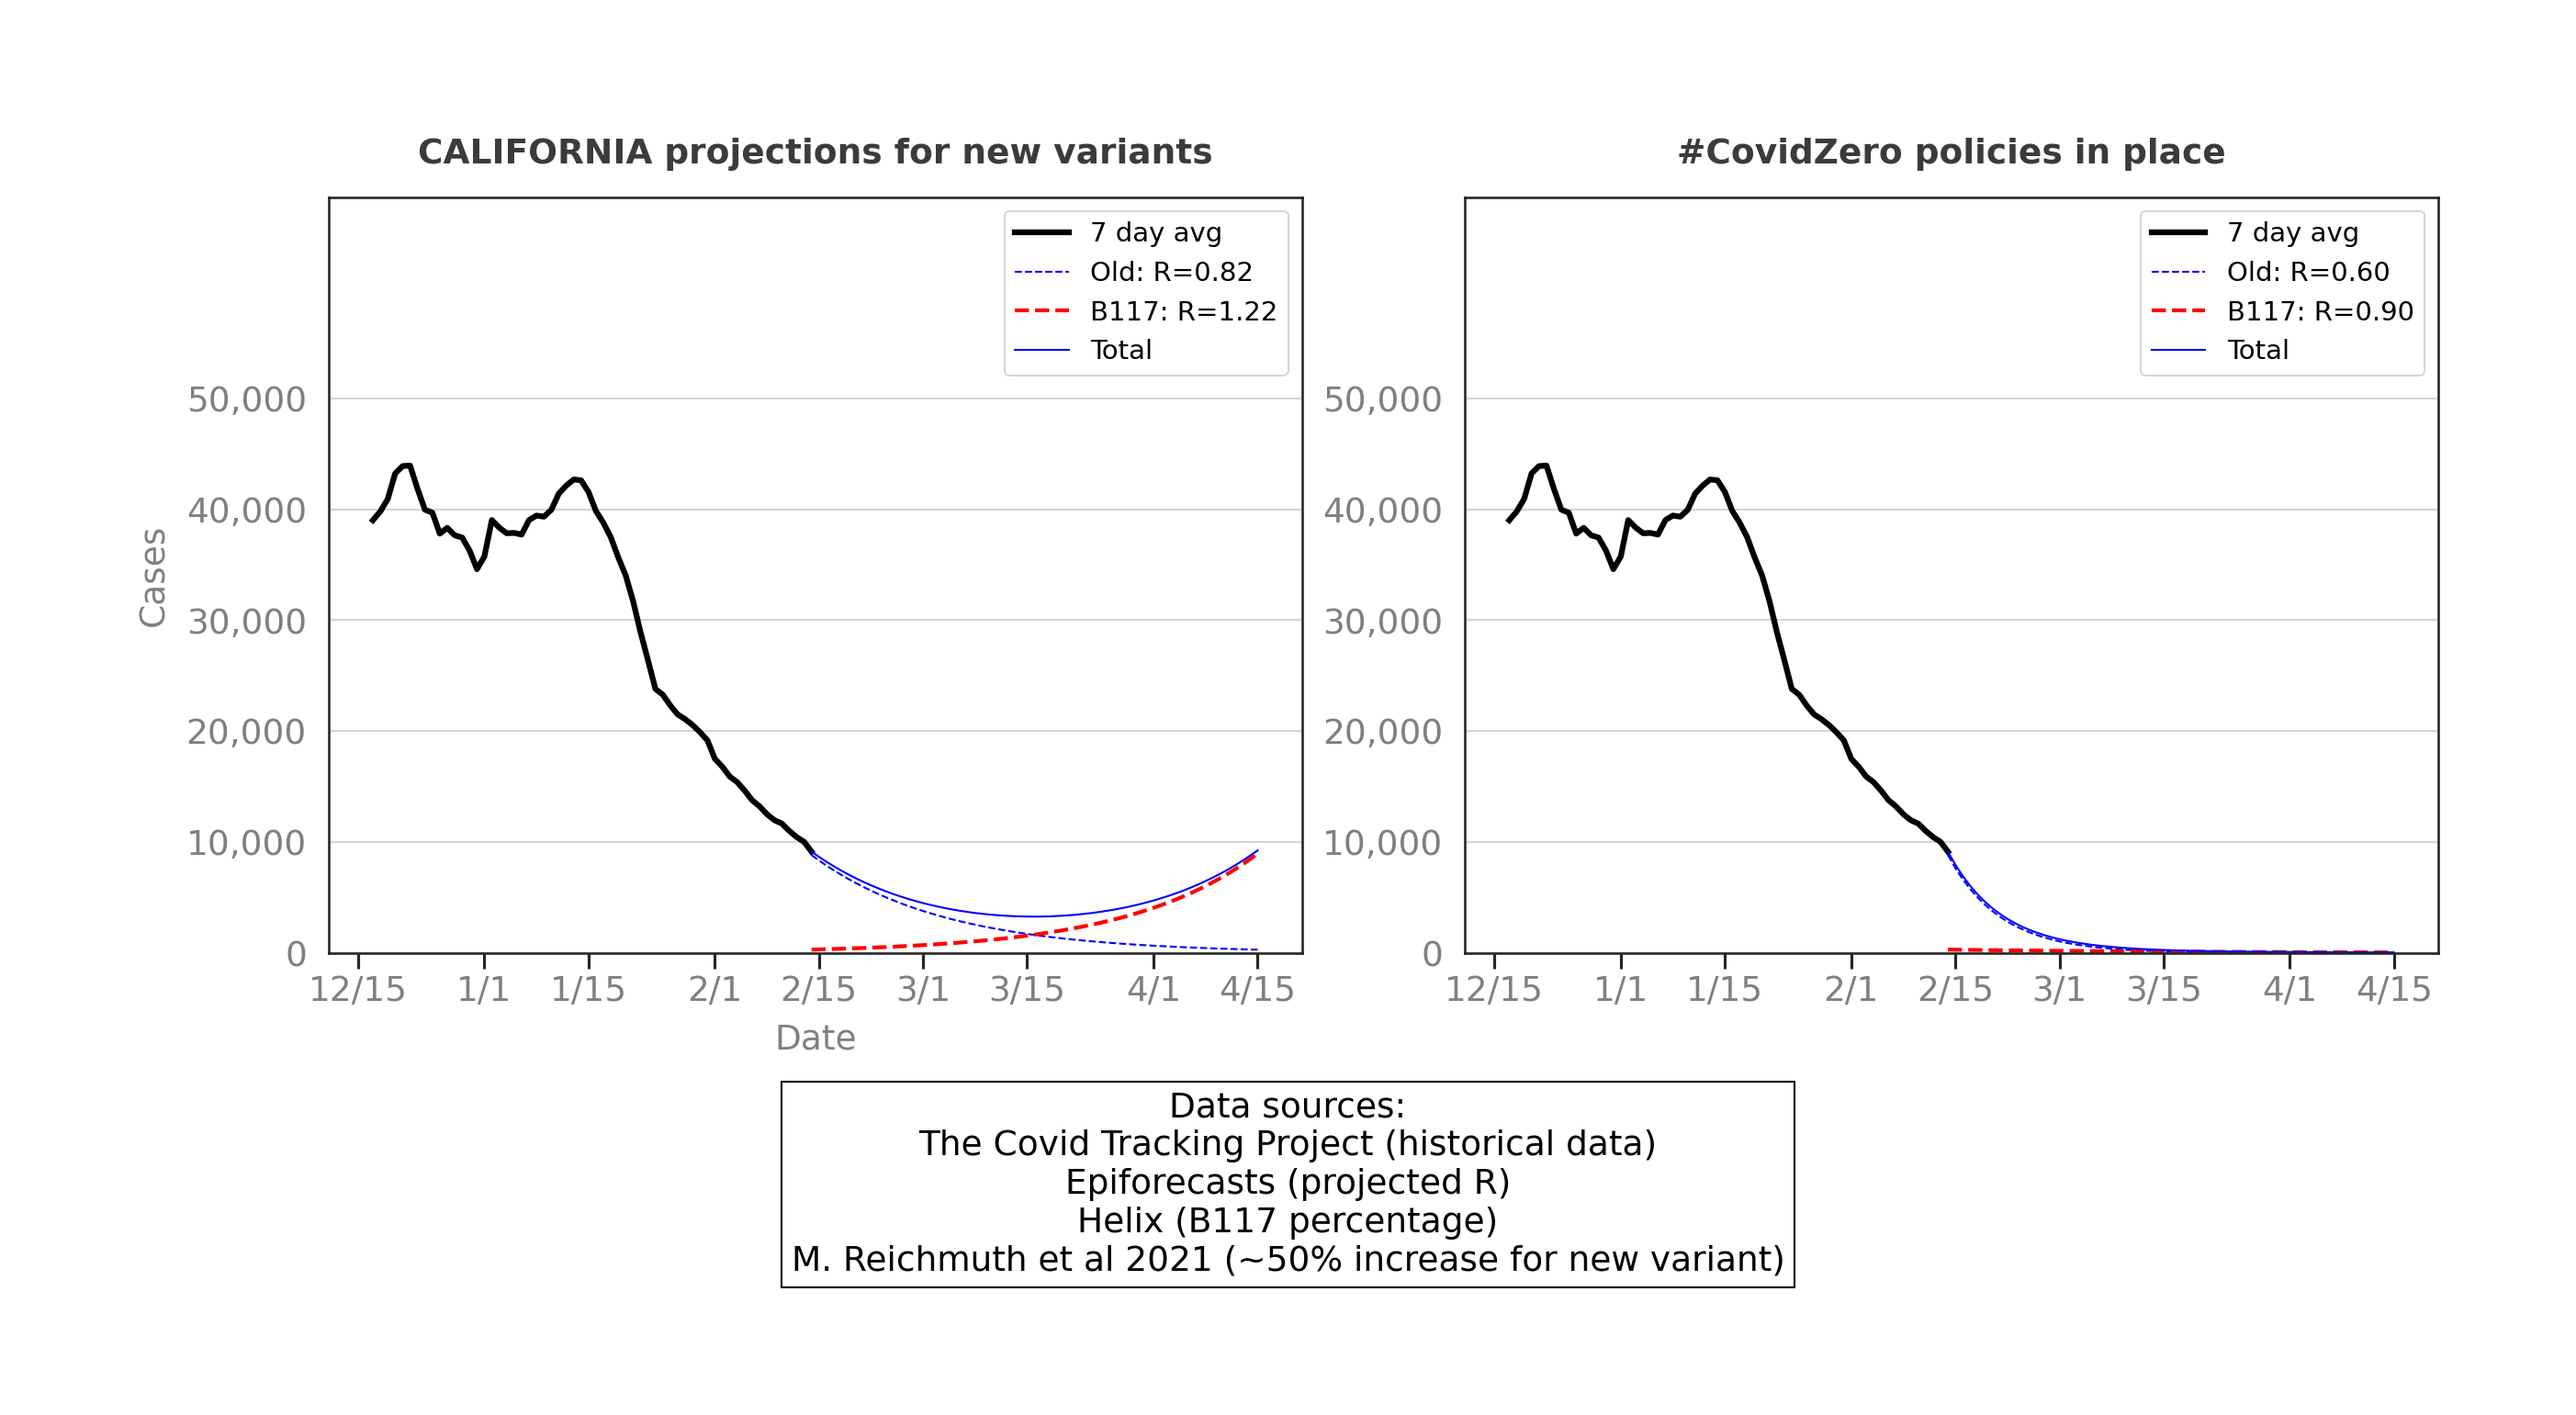
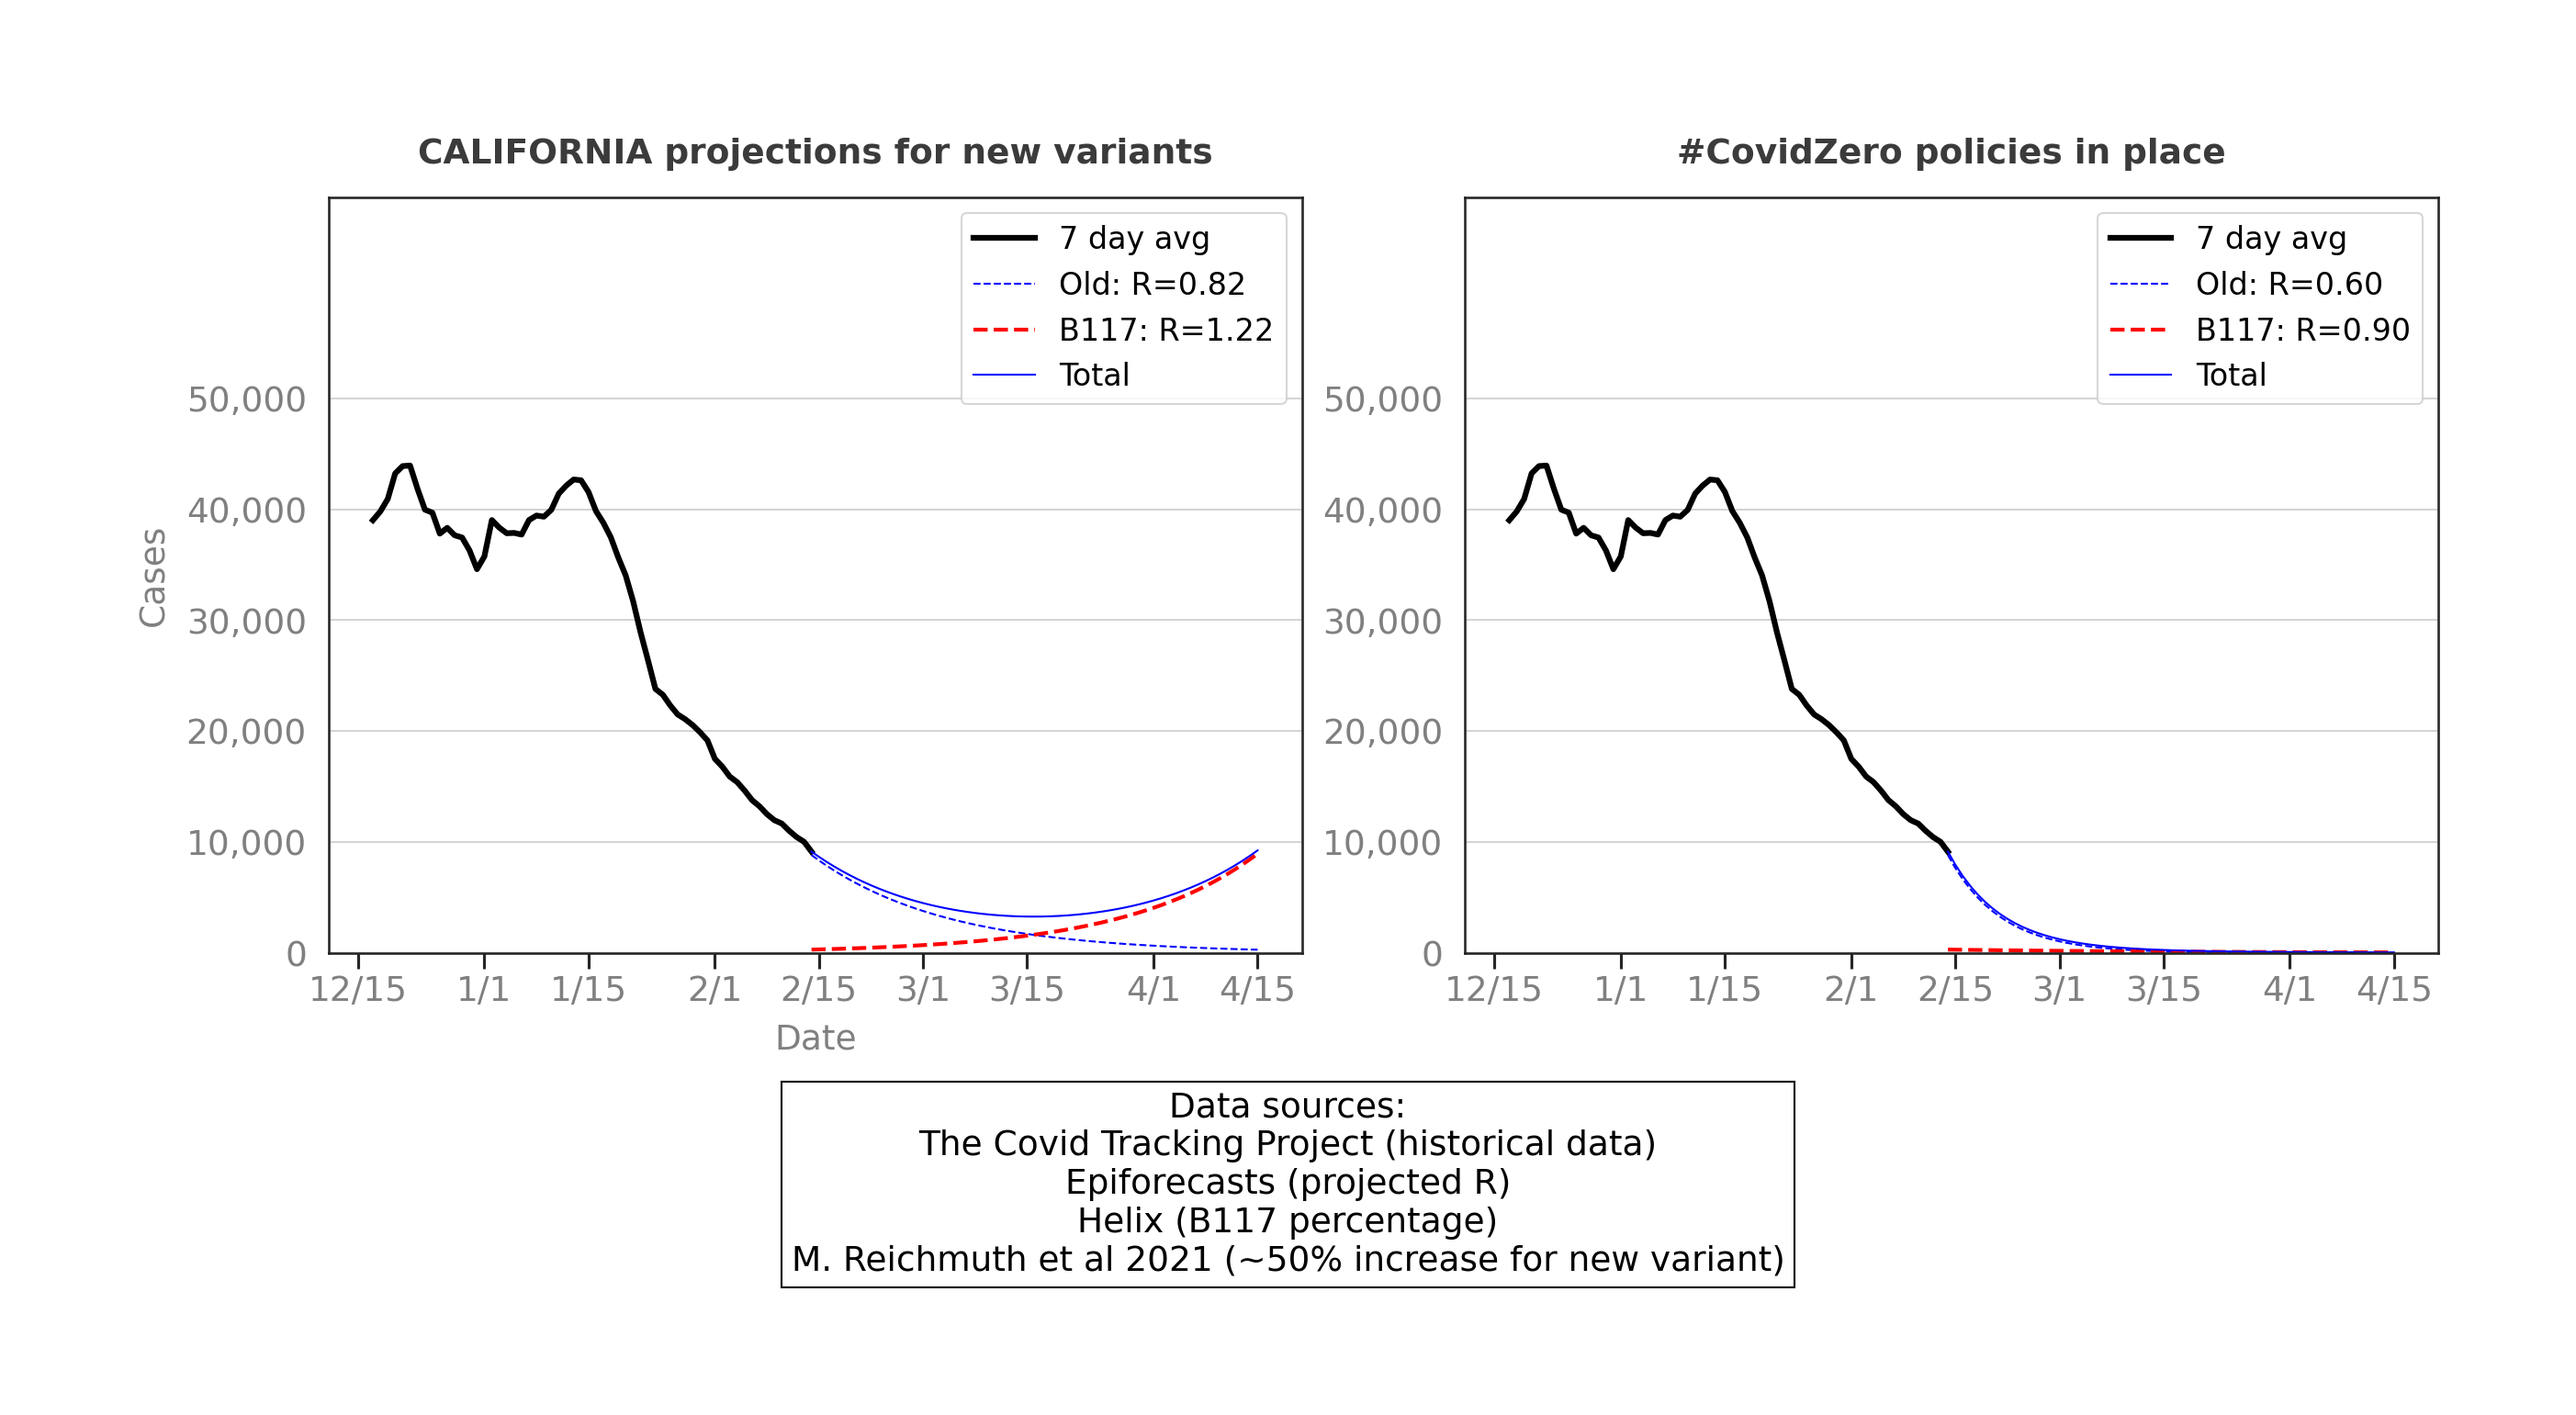
Increased legend size

Changed region(s): [[0.8064, 0.1557, 0.9615, 0.2803], [0.3722, 0.1557, 0.4963, 0.2803]]

diff --git a/new_variant_estimate.py b/new_variant_estimate.py
@@ -264,7 +264,7 @@ def makeSubChart(df_historical, df_r_estimates, df_emerging_variants, state, R_c
     setUpAxis(axis, axis_cutoff, current)
     
     if legend:
-      axis.legend(fontsize=14, loc='best')        
+      axis.legend(fontsize=16, loc='best')        
 
 
 
